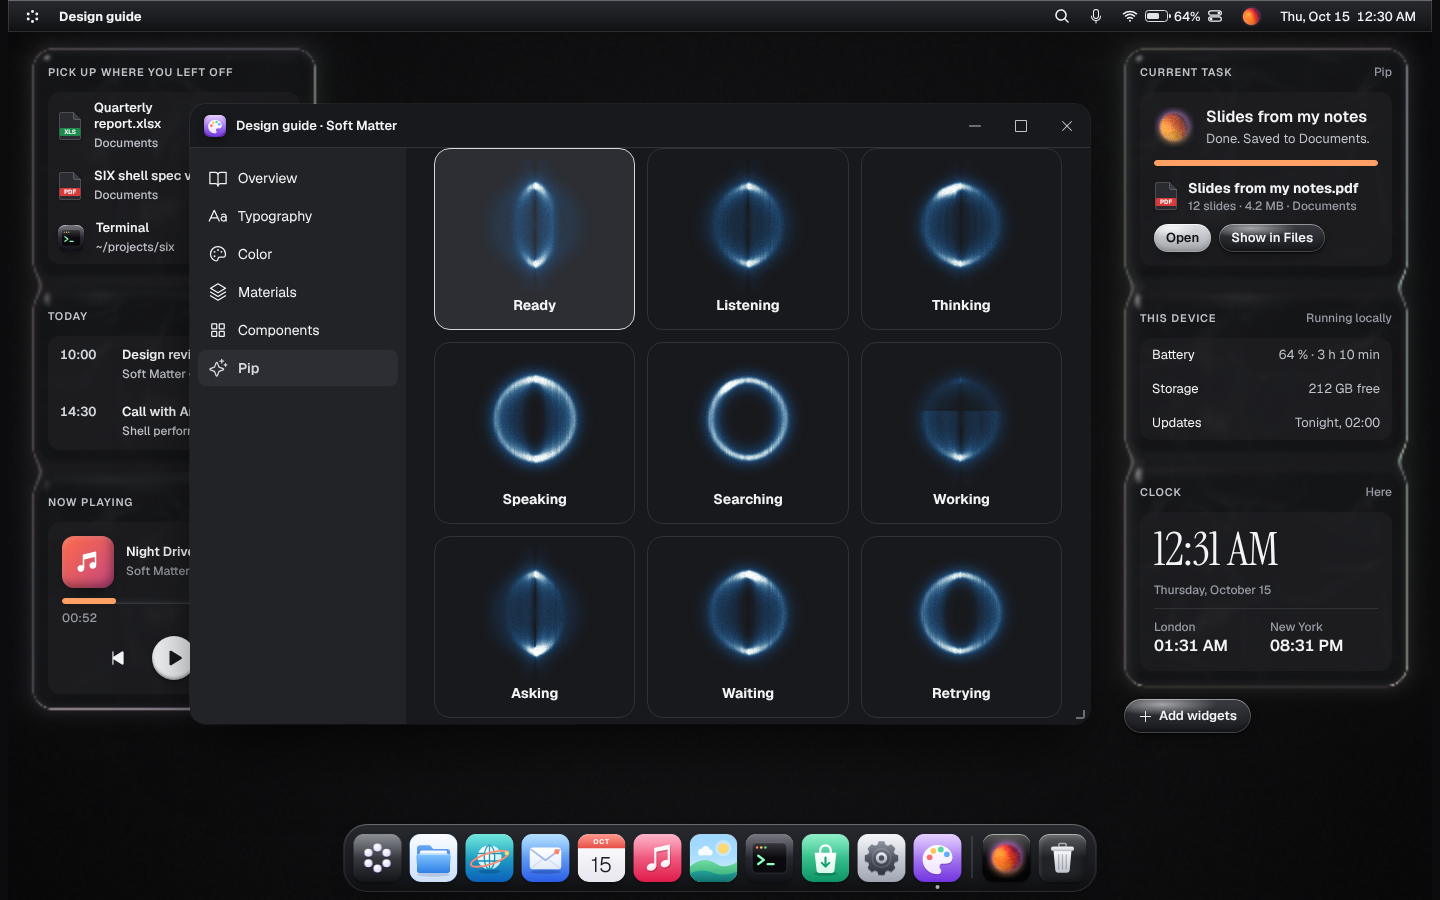
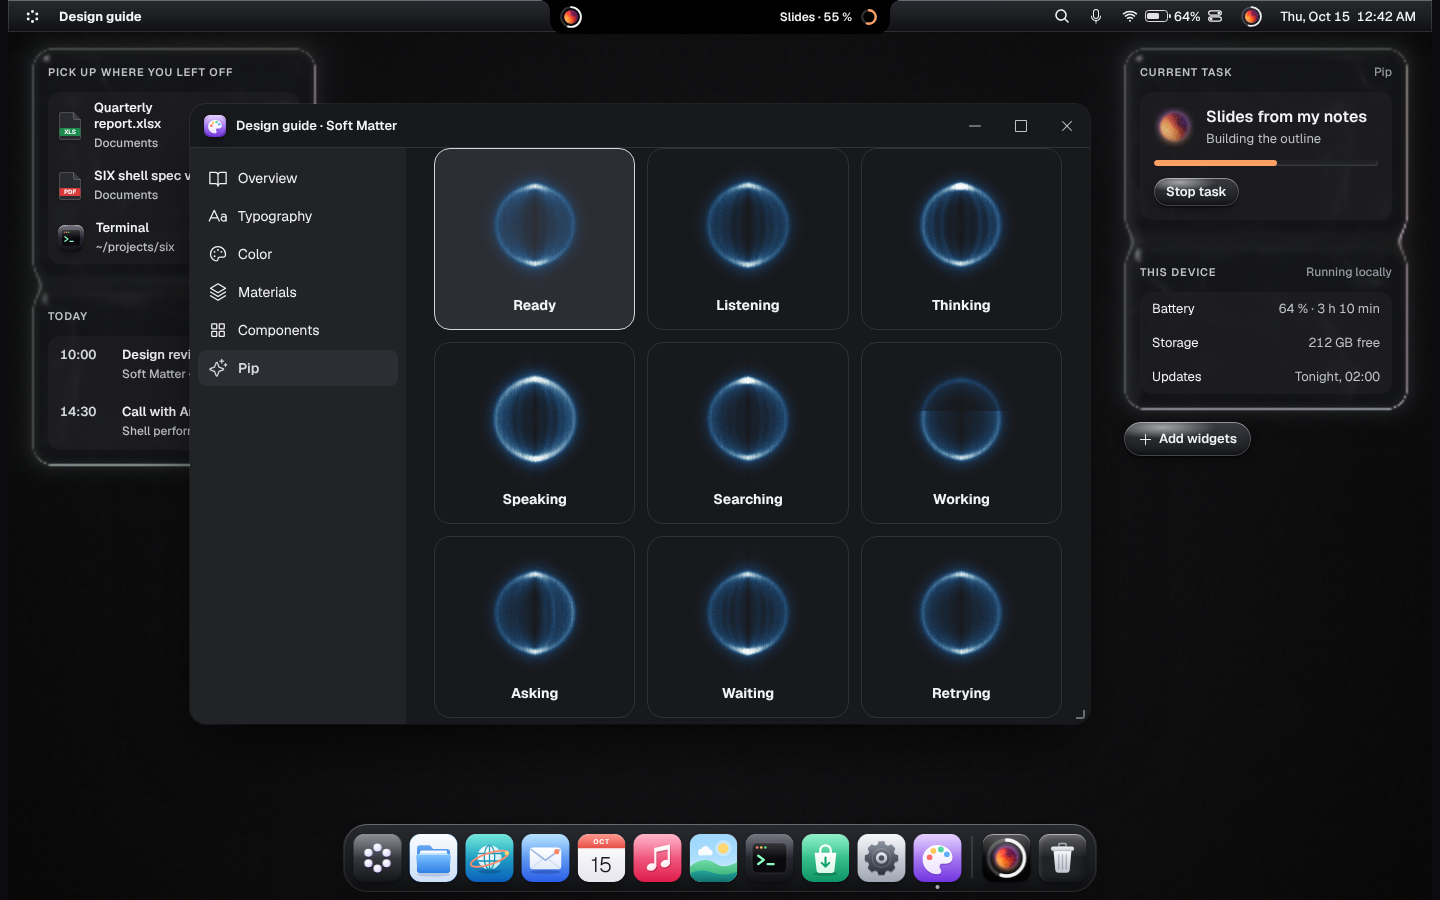
Halo: transparent and always round; fix a second file drag not starting
- Halo has no dark backing any more. On a dark page it is light; on a
  light page it is drawn as blue ink, the faint glow dropping out so
  the rim and streaks lead. The exposure always catches at least half
  a turn, so its outline is a circle, not an oval. The no-WebGL
  fallback is a circle too.
- Files: after a short drag that sprang back, the file name stayed
  selected and the next press started the browser's own text drag,
  cancelling ours, so the file never reached the Bin. File rows are no
  longer text-selectable and native drags on them are blocked.
- Guide text and Halo screenshots updated.

Claude-Session: https://claude.ai/code/session_01Vtxi7RyoKrSpBE2mZioMFq

diff --git a/design/prototype/index.html b/design/prototype/index.html
@@ -926,7 +926,8 @@ input[type="range"].bending::-moz-range-thumb { opacity: 0; }
 .flist { list-style: none; margin: 0; padding: 6px 8px; overflow: auto; flex: 1; }
 .fhead, .frow { display: grid; grid-template-columns: 1fr 110px 80px; gap: 12px; align-items: center; }
 .fhead { padding: 6px 18px; font: var(--text-caption); color: var(--c-text-3); border-bottom: 1px solid var(--c-line); }
-.frow { min-height: var(--control-md); padding: 4px 10px; border-radius: var(--radius-sm); cursor: default; }
+.frow { min-height: var(--control-md); padding: 4px 10px; border-radius: var(--radius-sm); cursor: default; -webkit-user-select: none; user-select: none; -webkit-user-drag: none; }
+.frow img, .frow svg { -webkit-user-drag: none; }
 .frow:hover { background: var(--c-surface-2); }
 .frow[aria-selected="true"] { background: var(--c-accent-soft); }
 .frow[aria-selected="true"] .fname { color: var(--c-accent); font-weight: 600; }
@@ -1771,7 +1772,7 @@ input[type="range"]::-moz-range-thumb { width: var(--rh); height: var(--rh); bor
           <p>A soft ball of warm colour: orange and red flowing over violet, with a pink haze lighting the air around it and a fine film grain, so it reads as a material and not a gradient. It is shaded as a matte ball, lit from the side Pip is looking at, and the only colour in an otherwise graphite and silver system. Thinking stirs it and sends a spark across; listening ripples it; working fills it like a glass of water as the task progresses; Complete warms it green once; Failed cools it red.</p>
           <div class="pips" id="pipStates"></div>
           <h3>Halo</h3>
-          <p>A ring of cold light turning in the dark, brightest at the top and bottom where you see it edge-on, with long-exposure streaks in the light. Working lights the ring round as the task progresses; searching and waiting send a bright knot along it. On a light page it sits in a small dark pool, so the light can be seen.</p>
+          <p>A ring of cold light spinning about its vertical axis, caught over a short exposure, so it reads as a 3D shell: brightest at the top and bottom where you see the ring edge-on, with long-exposure streaks running through the light. Its outline is always a circle, and it has no backing: on a light page it is drawn as blue ink. Working lights it from the bottom up as the task progresses; searching and waiting send a bright knot round it.</p>
           <div class="pips" id="haloStates"></div>
           <h3>Ripple</h3>
           <p>A terraced pool seen from above, from the teal rings it is modelled on: steps of colour falling to a dark centre, each lip lit on the side toward the light and shading the step below. The deeper rings shift further as Pip looks around, so it reads in depth, and the rings flow slowly outward like ripples. Listening sends waves through it; thinking winds the rings into a spiral; working fills it from the centre out.</p>
@@ -3387,6 +3388,9 @@ input[type="range"]::-moz-range-thumb { width: var(--rh); height: var(--rh); bor
     const x = visible()[+row.dataset.i]; if (!x || x.kind !== 'file') return;
     fdrag = { row, x, sx: e.clientX, sy: e.clientY, on: false, snapped: false };
   });
+  // the drag is ours: no text selection and no native drag-and-drop on file rows (a selected name
+  // would otherwise start the browser's own drag next time and cancel this one)
+  $('#flist').addEventListener('dragstart', e => { if (e.target.closest && e.target.closest('.frow')) e.preventDefault(); });
   function fghost(x, cx, cy) {
     const g = document.createElement('div');
     g.className = 'fghost'; g.setAttribute('aria-hidden', 'true');
@@ -4165,8 +4169,10 @@ vec4 halo(vec2 p) {
   // the spin is an ellipse, and together they make a translucent shell, brightest at the top and
   // bottom where the ring is seen edge-on, streaked with vertical bands where the spin lingered
   float R0 = 0.74 * (1.0 + uRipple * 0.035 * sin(uT * 6.0));
-  float tilt = 0.16 - uGaze.y * 0.35;
-  float spread = 1.15 + uSwirl * 0.9 + uAmp * 0.4;    // how much of a turn the exposure catches
+  float tilt = 0.06 - uGaze.y * 0.12;
+  // the exposure always catches at least half a turn, from edge-on to face-on, so the shell's
+  // outline is a circle; a faster spin (thinking, speaking) fills it more evenly
+  float spread = 3.3 + uSwirl * 0.8 + uAmp * 0.4;
   float e = 0.0, wide = 0.0;
   for (int k = 0; k < 14; k++) {
     float fk = float(k) / 13.0;
@@ -4190,23 +4196,27 @@ vec4 halo(vec2 p) {
     e += exp(-d * d / (th * th)) * dens * back * w * lit * (0.25 + 0.75 * edgeOn) * (1.0 + knot + cm);
     wide += exp(-d * d / 0.03) * lit;
   }
-  e *= 0.3; wide *= 0.02;
+  e *= 0.24; wide *= 0.016;
   // long-exposure streaks running up and down through the light
   float streak = 0.7 + 0.3 * noise(vec3(p.x * 34.0, uT * 0.7, 2.0)) + 0.15 * noise(vec3(p.x * 90.0, 5.0, uT * 0.3));
   float r = length(p);
-  float shell = exp(-pow((r - R0 * 0.92) / 0.22, 2.0)) * 0.12;         // the faint body of the shell
+  float shell = exp(-pow((r - R0 * 0.92) / 0.22, 2.0)) * 0.1 + exp(-pow((r - R0) / 0.045, 2.0)) * 0.16;   // the shell's body and its round rim
   e = (e * streak + wide + shell) * (1.0 + uAmp * 0.6);
   vec3 deep = vec3(0.08, 0.3, 0.55), ice = vec3(0.8, 0.96, 1.0);
   vec3 col = 1.0 - exp(-mix(deep, ice, smoothstep(0.3, 1.8, e)) * e * 1.7);
   col = mix(col, uTint * length(col), uTintK);
   col = sat(col, uSat);
   float al = clamp(max(col.r, max(col.g, col.b)) * 1.15, 0.0, 1.0);
-  // on a light page the light needs a dark pool to be seen in
-  float pool = (1.0 - uDark) * (1.0 - smoothstep(0.92, 1.12, r)) * uHaze;
-  float keep = mix(1.0 - smoothstep(0.9, 1.08, r), 1.0, max(uDark, 1.0 - uHaze));   // in light, the light stays inside its pool
-  col *= keep; al *= keep;
-  vec3 pc = vec3(0.02, 0.03, 0.055);
-  return vec4(col + pc * pool * (1.0 - al), al + pool * (1.0 - al));
+  // no backing in either theme: on a light page the light is drawn as blue ink instead, deepest
+  // where the light is faint and brighter at the hot spots, so it reads on white with nothing behind it
+  if (uDark < 0.5) {
+    float k = 1.0 - exp(-max(e - 0.14, 0.0) * 1.7);                  // faint glow drops out; the rim and streaks stay
+    vec3 ink = mix(vec3(0.07, 0.3, 0.62), vec3(0.2, 0.6, 0.95), smoothstep(0.4, 1.6, e));
+    ink = sat(mix(ink, uTint * 0.8, uTintK), uSat);
+    al = clamp(k, 0.0, 0.9);
+    col = ink * al;
+  }
+  return vec4(col, al);
 }
 vec4 ripple(vec2 p) {
   // a terraced pool, seen from above: rings stepping down to a dark centre, each lip catching the
@@ -4418,9 +4428,8 @@ void main() {
     if (form === 'ripple') {
       for (let i = 8; i >= 1; i--) { const k = i / 8; ctx.fillStyle = `rgba(${Math.round(20 + 200 * k)},${Math.round(40 + 190 * k)},${Math.round(48 + 190 * k)},${(1 - k * 0.5).toFixed(2)})`; ctx.beginPath(); ctx.arc(cx, cy, R * k, 0, TAU); ctx.fill(); }
     } else if (form === 'halo') {
-      if (!dark) { ctx.fillStyle = '#06080f'; ctx.beginPath(); ctx.arc(cx, cy, R * 1.05, 0, TAU); ctx.fill(); }
-      ctx.strokeStyle = 'rgba(150,220,255,0.9)'; ctx.lineWidth = Math.max(1.5, R * 0.08); ctx.shadowColor = 'rgba(80,170,255,0.9)'; ctx.shadowBlur = R * 0.3;
-      ctx.beginPath(); ctx.ellipse(cx, cy, R * 0.32, R * 0.72, 0, 0, TAU); ctx.stroke();
+      ctx.strokeStyle = dark ? 'rgba(150,220,255,0.9)' : 'rgba(20,90,170,0.85)'; ctx.lineWidth = Math.max(1.5, R * 0.08); ctx.shadowColor = dark ? 'rgba(80,170,255,0.9)' : 'rgba(30,110,200,0.45)'; ctx.shadowBlur = R * 0.3;
+      ctx.beginPath(); ctx.arc(cx, cy, R * 0.74, 0, TAU); ctx.stroke();
     } else {
       const hz = ctx.createRadialGradient(cx, cy, R * 0.8, cx, cy, R * 1.3);
       hz.addColorStop(0, 'rgba(240,130,255,0.35)'); hz.addColorStop(1, 'rgba(240,130,255,0)');

diff --git a/design/guide/14-home-assistant.md b/design/guide/14-home-assistant.md
@@ -326,7 +326,9 @@ A ring of cold light spinning about its vertical axis, caught over a short expos
 long-exposure light rings it is modelled on. Each moment of the spin is an ellipse; together they
 make a translucent 3D shell, brightest at the top and bottom where the ring is seen edge-on, with
 a dark seam down the middle, vertical streaks where the spin lingered and the far half dimmer than
-the near one. On a light page it sits in a small dark pool, and its light stays inside it.
+the near one. The exposure always catches at least half a turn, so its outline is always a circle.
+It has no backing: on a dark page it is light, and on a light page it is drawn as blue ink, so it
+sits on the page with nothing behind it.
 
 ![Home with Pip as Halo](../screens/home-halo.png)
 
